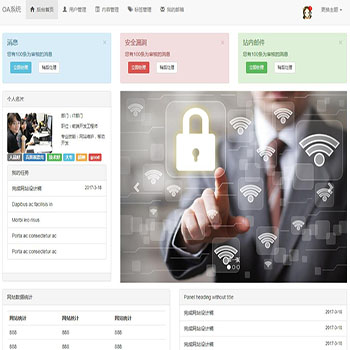
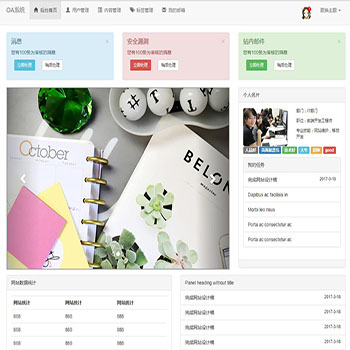
MY8

diff --git a/OA/index.html b/OA/index.html
@@ -5,7 +5,7 @@
     <meta http-equiv="X-UA-Compatible" content="IE=edge">
     <meta name="viewport" content="width=device-width, initial-scale=1">
     <!-- 上述3个meta标签*必须*放在最前面，任何其他内容都*必须*跟随其后！ -->
-    <title>Bootstrap 101 Template</title>
+    <title>OA办公系统</title>
 
     <!-- Bootstrap -->
     <link href="css/bootstrap.min.css" rel="stylesheet">
@@ -40,6 +40,9 @@
           }
           .btn{
           	margin: 10px;
+          }
+          .biankuang{
+          	border: 2px solid #999;
           }
     
       </style>
@@ -124,43 +127,9 @@
             </div>
         </div>
       </div>
-      <div class="row">
-        <div class="col-md-4">
-          <div class="panel panel-default">
-            <div class="panel-heading">个人名片</div>
-            <div class="panel-body">
-                <div class="row">
-                    <div class="col-md-6"><img src="images/images.jpg" class="img-rounded img-responsive"></div>
-                    <div class="col-md-6 depart">
-                        <p>部门：IT部门</p>
-                        <p>职位：前端开发工程师</p>
-                        <p>专业技能：网站维护，移动开发</p>
-                    </div>
-                </div>                
-                  <p>
-                    <span class="label label-default">人品好</span>
-                    <span class="label label-primary">页面很漂亮</span>
-                    <span class="label label-success">技术好</span>
-                    <span class="label label-info">大牛</span>
-                    <span class="label label-warning">超神</span>
-                    <span class="label label-danger">good</span>
-                  </p>
-                <div class="panel panel-default">
-                  <div class="panel-heading">我的任务</div>
-                    <ul class="list-group">
-                      <li class="list-group-item">完成网站设计稿<span class="pull-right small">2017-3-18</span></li>
-                      <li class="list-group-item">Dapibus ac facilisis in</li>
-                      <li class="list-group-item">Morbi leo risus</li>
-                      <li class="list-group-item">Porta ac consectetur ac</li>
-                      <li class="list-group-item">Porta ac consectetur ac</li>
-                    </ul>                   
-                </div>             
-            </div>
-            <div class="panel-footer"></div>
-          </div>
-        </div>
+      <div class="row">      
         <div class="col-md-8">
-            <div id="carousel-example-generic" class="carousel slide" data-ride="carousel">
+            <div id="carousel-example-generic" class="carousel slide biankuang" data-ride="carousel">
               <!-- Indicators -->
               <ol class="carousel-indicators">
                 <li data-target="#carousel-example-generic" data-slide-to="0" class="active"></li>
@@ -200,6 +169,41 @@
                 <span class="sr-only">Next</span>
               </a>
             </div>
+        </div>
+      
+      	 <div class="col-md-4">
+          <div class="panel panel-default">
+            <div class="panel-heading">个人名片</div>
+            <div class="panel-body">
+                <div class="row">
+                    <div class="col-md-6"><img src="images/images.jpg" class="img-rounded img-responsive"></div>
+                    <div class="col-md-6 depart">
+                        <p>部门：IT部门</p>
+                        <p>职位：前端开发工程师</p>
+                        <p>专业技能：网站维护，移动开发</p>
+                    </div>
+                </div>                
+                  <p>
+                    <span class="label label-default">人品好</span>
+                    <span class="label label-primary">页面很漂亮</span>
+                    <span class="label label-success">技术好</span>
+                    <span class="label label-info">大牛</span>
+                    <span class="label label-warning">超神</span>
+                    <span class="label label-danger">good</span>
+                  </p>
+                <div class="panel panel-default">
+                  <div class="panel-heading">我的任务</div>
+                    <ul class="list-group">
+                      <li class="list-group-item">完成网站设计稿<span class="pull-right small">2017-3-18</span></li>
+                      <li class="list-group-item">Dapibus ac facilisis in</li>
+                      <li class="list-group-item">Morbi leo risus</li>
+                      <li class="list-group-item">Porta ac consectetur ac</li>
+                      <li class="list-group-item">Porta ac consectetur ac</li>
+                    </ul>                   
+                </div>             
+            </div>
+            <div class="panel-footer"></div>
+          </div>
         </div>
       </div>
       <div class="row">
